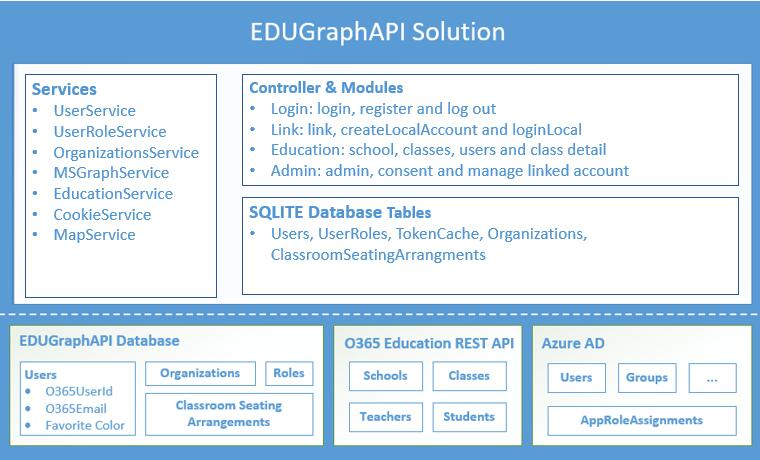
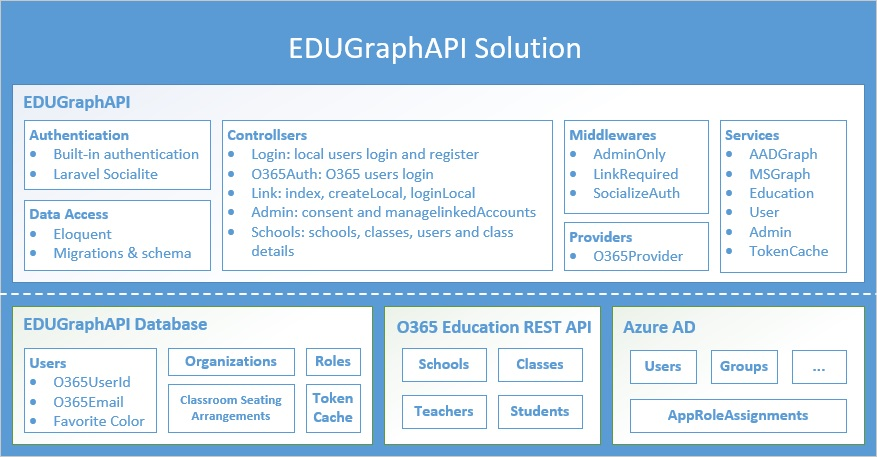
Update README.md

diff --git a/README.md b/README.md
@@ -9,7 +9,7 @@ School data is kept in sync in O365 Education tenants by [Microsoft School Data 
 - [Sample Goals](#sample-goals)
 - [Prerequisites](#prerequisites)
 - [Register the application in Azure Active Directory](#register-the-application-in-azure-active-directory)
-- [Build and debug locally](#build-and-debug-locally)
+- [Debug locally](#debug-locally)
 - [Deploy the sample to Azure](#deploy-the-sample-to-azure)
 - [Understand the code](#understand-the-code)
 - [Questions and comments](#questions-and-comments)
@@ -32,7 +32,7 @@ The sample demonstrates:
 
   - [Office 365 Schools REST API reference](https://msdn.microsoft.com/office/office365/api/school-rest-operations)
 
-EDUGraphAPI is implemented with the PHP language and the [Laravel](https://laravel.com/) framework.
+The sample is implemented with the PHP language and the [Laravel](https://laravel.com/) framework.
 
 ## Prerequisites
 
@@ -49,8 +49,8 @@ EDUGraphAPI is implemented with the PHP language and the [Laravel](https://larav
   - [PHP 7.0](http://php.net/downloads.php)
   - [Composer](https://getcomposer.org/download/)
   - [Git](https://git-scm.com/download/win)
-  - PHP editor like PhPStorem
-  - Familiarity with PHP ([Laravel](https://laravel.com/)).
+  - PHP IDE like [PhpStorm](https://www.jetbrains.com/phpstorm/specials/phpstorm/phpstorm.html)
+  - Familiarity with PHP and [Laravel](https://laravel.com/).
 
 **Optional configuration**:
 
@@ -124,13 +124,13 @@ Create a key to enable Bing Maps API features in the app:
 
    Close the Settings window.
 
-## Build and debug locally
+## Debug locally
 
-This project can be opened with the edition like PHPStorm you already have.
+[PhpStorm](https://www.jetbrains.com/phpstorm/specials/phpstorm/phpstorm.html) is recommended to debug the sample locally.
 
-The following tools are also required:
+The following software and components are also required:
 
-- PHP >= 5.6.4
+- PHP >= 7.0.0
 - OpenSSL PHP Extension
 - PDO PHP Extension
 - Mbstring PHP Extension
@@ -140,7 +140,7 @@ The following tools are also required:
 
 Debug the **EDUGraphAPI.Web**:
 
-1. Configure **Environment Variables**. Create a local .env file and input like below:
+1. Configure **environment variables**. Create a local .env file and input like below:
 
    ![env](/Images/env.jpg)
 
@@ -264,15 +264,15 @@ We utilized the built-in [authentication](https://laravel.com/docs/5.4/authentic
 
 **Data Access**
 
-[Eloquent](https://laravel.com/docs/5.4/eloquent) is used to access data stroed in the SQLite database.
+[Eloquent](https://laravel.com/docs/5.4/eloquent) is used to access data stored in the SQLite database.
 
 The tables used in this demo:
 
 | Table                        | Description                              |
 | ---------------------------- | ---------------------------------------- |
-| Users                        | Contains the user's information: name, email, hashed password...<br>*O365UserId* and *O365Email* are used to connect the local user with an O365 user. |
+| Users                        | Contains the user's information: name, email, password...<br>*o365UserId* and *o365Email* are used to connect the local user with an O365 user. |
 | UserRoles                    | Contains users' role. Three roles are used in this sample: admin, teacher, and student. |
-| Organizations                | A row in this table represents a tenant in AAD.<br>*IsAdminConsented* column records than if the tenant consented by an administrator. |
+| Organizations                | A row in this table represents a tenant in AAD.<br>*isAdminConsented* column records than if the tenant consented by an administrator. |
 | TokenCache                   | Contains the users' access/refresh tokens. |
 | ClassroomSeatingArrangements | Contains the classroom seating arrangements. |
 
@@ -282,11 +282,25 @@ Below are the main controllers used by the sample.
 
 | Controller         | Description                              |
 | ------------------ | ---------------------------------------- |
-| LoginController    | contains actions for local users to login |
-| O365AuthController | contains actions for O365 users to login |
+| LoginController    | contains actions for local users to log in. |
+| O365AuthController | contains actions for O365 users to log in |
 | LinkController     | implements the **Local/O365 Login Authentication Flow**. Please check [Authentication Flows](https://github.com/TylerLu/EDUGraphAPI#authentication-flows) section for more details. |
 | AdminController    | contains the admin actions               |
 | SchoolsController  | contains actions to show schools and classes. `SchoolsService` class is mainly used by this controller. Please check [Office 365 Education API](https://github.com/TylerLu/EDUGraphAPI#office-365-education-api) section for more details. |
+
+All the controllers are under the **app/Http/Controller** folder.
+
+**Middlewares**
+
+We create several middlewares for authentication and authorization.
+
+| Middleware              | Description                              |
+| ----------------------- | ---------------------------------------- |
+| AdminOnlyMiddleware     | Only allows admin to access the protected routes. It is mainly used for AdminController. |
+| LinkRequiredMiddleware  | Redirects unlinked users to /link. It is mainly used for the SchoolsController. |
+| SocializeAuthMiddleware | Integrate O365 user with PHP authentication framework. The current O365 user could be got through ```Auth:user()```. |
+
+All the middleware are in the **app/Http/Middleware**.
 
 **Services**
 
@@ -294,15 +308,15 @@ Below are the main services used by the sample:
 
 | Service           | Description                              |
 | ----------------- | ---------------------------------------- |
-| AADGraphService   | Contains methods used to access AAD Graph REST APIs |
-| MSGraphService    | Contains methods used to access MS Graph REST APIs |
-| EducationService  | Contains methods like get user information,  get schools, classes and users, get/update seating arrangements |
-| CookieService     | Contains methods that used to manage cookies |
-| TokenCacheService | Contains method used to get and update token cache from the database |
-| UserService       | Contains method used to manipulate users in the database |
-| AdminService      | Contains method used to unconsent.       |
+| AADGraphService   | Contains methods used to access AAD Graph REST APIs. |
+| MSGraphService    | Contains methods used to access MS Graph REST APIs. |
+| EducationService  | Contains methods like get user information,  get schools/classes/users, get/update seating arrangements. |
+| CookieService     | Contains methods that used to manage cookies. |
+| TokenCacheService | Contains methods used to get and update token cache from the database. |
+| UserService       | Contains methods used to manipulate users in the database. |
+| AdminService      | Contains administrative methods like consent tenant, manage linked accounts. |
 
-All the services are in the **/app/Services** folder.
+All the services are in the **app/Services** folder.
 
 **Multi-tenant app**
 
@@ -316,8 +330,6 @@ Users from any Azure Active Directory tenant can access this app. Some permissio
 
 For more information, see [Build a multi-tenant SaaS web application using Azure AD & OpenID Connect](https://azure.microsoft.com/en-us/resources/samples/active-directory-dotnet-webapp-multitenant-openidconnect/).
 
-
-
 ### Office 365 Education API
 
 The [Office 365 Education APIs](https://msdn.microsoft.com/office/office365/api/school-rest-operations) return data from any Office 365 tenant which has been synced to the cloud by Microsoft School Data Sync. The APIs provide information about schools, sections, teachers, students, and rosters. The Schools REST API provides access to school entities in Office 365 for Education tenants.
@@ -327,42 +339,41 @@ In this sample, the `App\Services\EducationService` class encapsulates the Offic
 **Get schools**
 
 ~~~typescript
-  public function getSchools()
-    {
-        return $this->getAllPages("get", "/administrativeUnits?api-version=beta", School::class);
-    }
+public function getSchools()
+{
+    return $this->getAllPages("get", "/administrativeUnits?api-version=beta", School::class);
+}
 ~~~
 
 ~~~typescript
- public function getSchool($objectId)
-    {
-        return $this->getResponse("get", "/administrativeUnits/" . $objectId . "?api-version=beta", School::class, null, null);
-    }
+public function getSchool($objectId)
+{
+    return $this->getResponse("get", "/administrativeUnits/" . $objectId . "?api-version=beta", School::class, null, null);
+}
 ~~~
 
 **Get classes**
 
 ~~~typescript
-    public function getSections($schoolId, $top, $skipToken)
-    {
-        return $this->getResponse("get", '/groups?api-version=beta&$filter=extension_fe2174665583431c953114ff7268b7b3_Education_ObjectType%20eq%20\'Section\'%20and%20extension_fe2174665583431c953114ff7268b7b3_Education_SyncSource_SchoolId%20eq%20\'' . $schoolId . '\'', Section::class, $top, $skipToken);
-    }
+public function getSections($schoolId, $top, $skipToken)
+{
+    return $this->getResponse("get", '/groups?api-version=beta&$filter=extension_fe2174665583431c953114ff7268b7b3_Education_ObjectType%20eq%20\'Section\'%20and%20extension_fe2174665583431c953114ff7268b7b3_Education_SyncSource_SchoolId%20eq%20\'' . $schoolId . '\'', Section::class, $top, $skipToken);
+}
 ~~~
 
 ```typescript
-    public function getSectionWithMembers($objectId)
-    {
-        return $this->getResponse("get", '/groups/' . $objectId . '?api-version=beta&$expand=members', Section::class, null, null);
-    }
-
+public function getSectionWithMembers($objectId)
+{
+    return $this->getResponse("get", '/groups/' . $objectId . '?api-version=beta&$expand=members', Section::class, null, null);
+}
 ```
 **Get users**
 
 ```typescript
-    public function getMembers($objectId, $top, $skipToken)
-    {
-        return $this->getResponse("get", "/administrativeUnits/" . $objectId . "/members?api-version=beta", SectionUser::class, $top, $skipToken);
-    }
+public function getMembers($objectId, $top, $skipToken)
+{
+    return $this->getResponse("get", "/administrativeUnits/" . $objectId . "/members?api-version=beta", SectionUser::class, $top, $skipToken);
+}
 ```
 Below are some screenshots of the sample app that show the education data.
 
@@ -373,8 +384,6 @@ Below are some screenshots of the sample app that show the education data.
 ![](Images/edu-classes.png)
 
 ![](Images/edu-class.png)
-
-
 
 ### Authentication Flows
 
@@ -394,7 +403,7 @@ The first 2 flows (Local Login/O365 Login) enable users to login in with either 
 
 This flow shows how an administrator logs into the system and performs administrative operations.
 
-After logging into the app with an office 365 account,the administrator will be asked to link to a local account. This step is not required and can be skipped. 
+After logging into the app with an office 365 account, the administrator will be asked to link to a local account. This step is not required and can be skipped. 
 
 As mentioned earlier, the web app is a multi-tenant app which uses some application permissions, so tenant administrator must consent the app first.  
 
@@ -420,14 +429,14 @@ There are two distinct Graph APIs used in this sample:
 Below is a piece of code shows how to get "me" from the Microsoft Graph API.
 
 ```typescript
-   public function getMe()
-    {
-        $json = $this->getResponse("get", "/me?api-version=1.5", null, null, null);
-        $assignedLicenses = array_map(function ($license) {
-            return new Model\AssignedLicense($license);
-        }, $json["assignedLicenses"]);
-      ...
-    }
+public function getMe()
+{
+    $json = $this->getResponse("get", "/me?api-version=1.5", null, null, null);
+    $assignedLicenses = array_map(function ($license) {
+        return new Model\AssignedLicense($license);
+    }, $json["assignedLicenses"]);
+    ...
+}
 ```
 
 Note that in the AAD Application settings, permissions for each Graph API are configured separately:
